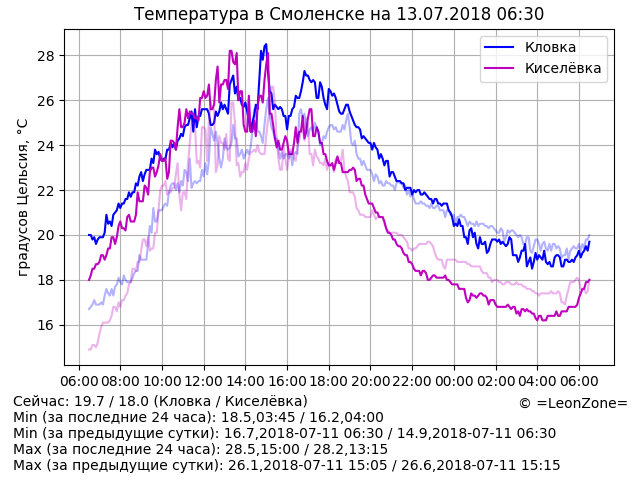
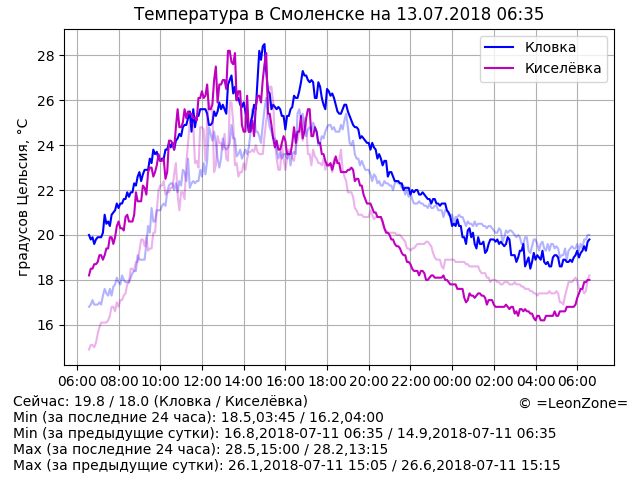
Update data

diff --git a/index.html b/index.html
@@ -14,9 +14,9 @@
 	<p align="center"><script>document.write("<img src=\"graph.png?rnd="+Math.random()+"\" alt=\"Температура в Смоленске\" align=\"middle\" width=\"640\" height=\"480\" />")</script>
 	<p hidden="true">
 <!-- textinfo -->
-Сейчас: 19.7 / 18.0 (Кловка / Киселёвка)
+Сейчас: 19.8 / 18.0 (Кловка / Киселёвка)
 Min (за последние 24 часа): 18.5,03:45 / 16.2,04:00
-Min (за предыдущие сутки): 16.7,2018-07-11 06:30 / 14.9,2018-07-11 06:30
+Min (за предыдущие сутки): 16.8,2018-07-11 06:35 / 14.9,2018-07-11 06:35
 Max (за последние 24 часа): 28.5,15:00 / 28.2,13:15
 Max (за предыдущие сутки): 26.1,2018-07-11 15:05 / 26.6,2018-07-11 15:15
 <!-- /textinfo -->
